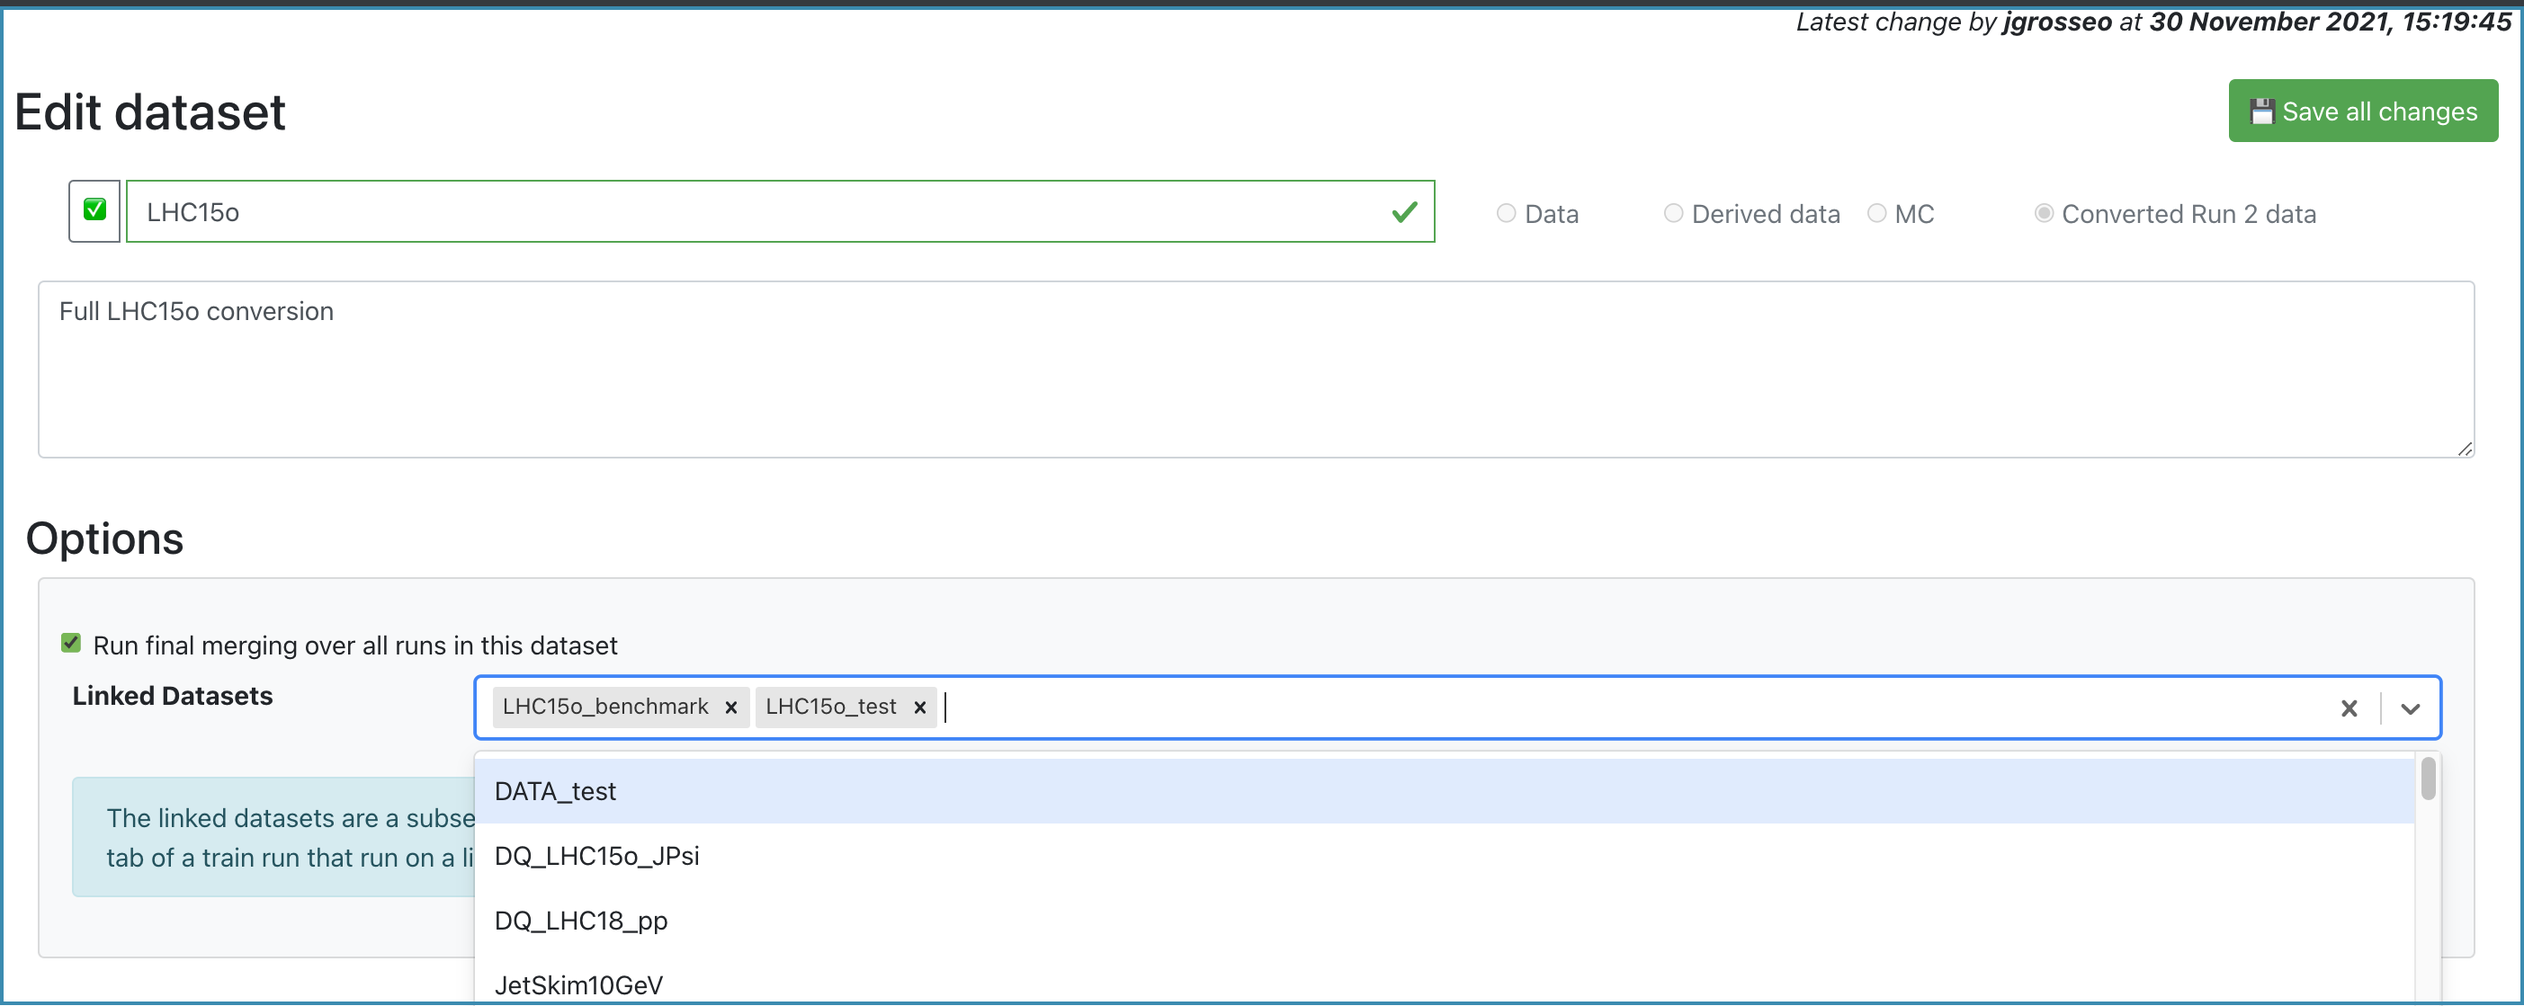
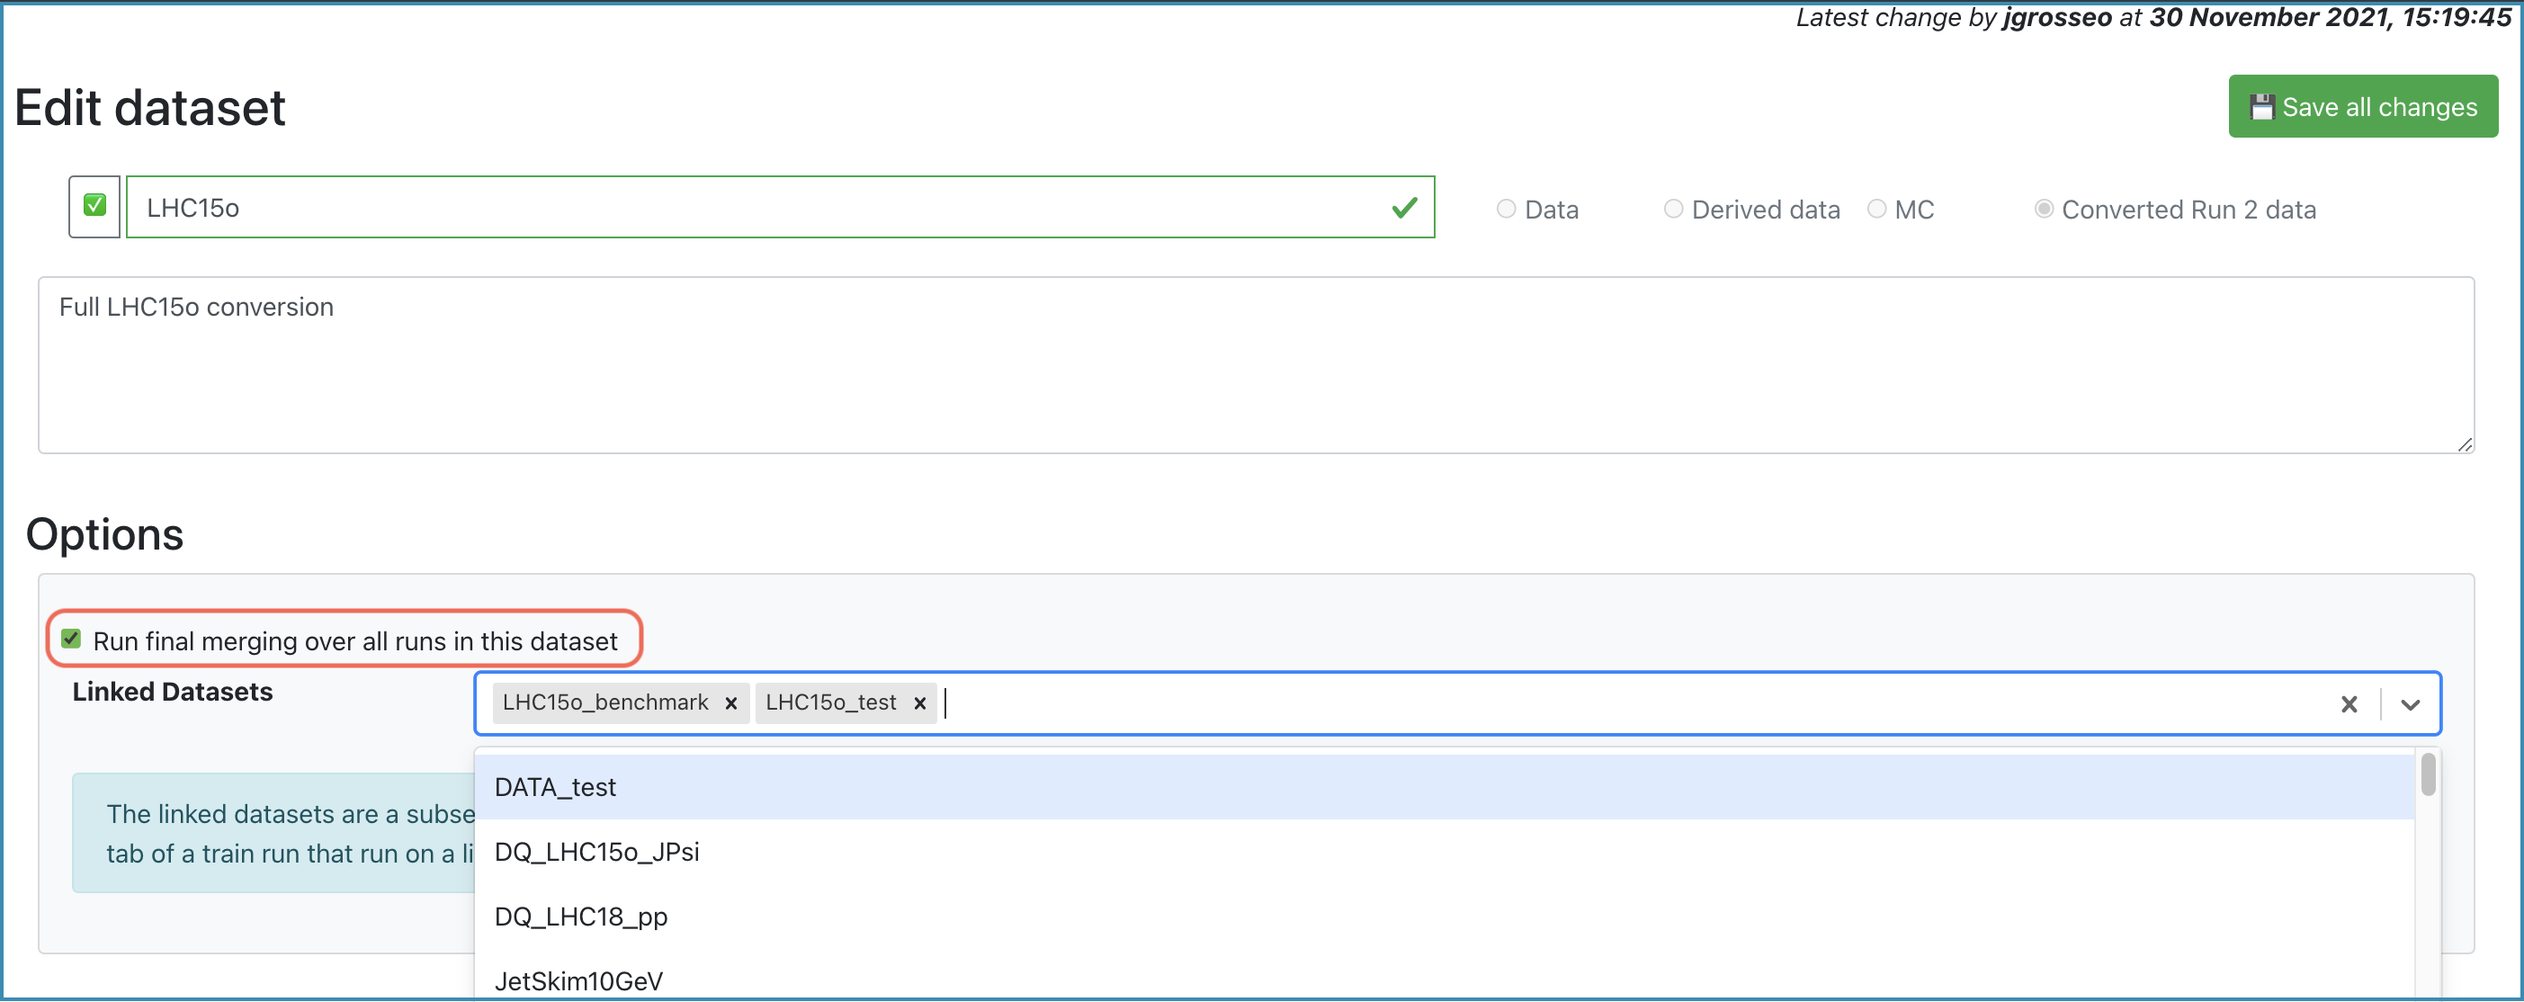
Update documentation and fixes (#79)
* Update information

* Fixes

* Update dataset production pictures

* Change layout

* Add direct links

* Add direct links

* Change format

* Add short description of main pages

* Add each warning in menu

diff --git a/docs/hyperloop/operatordocumentation.md b/docs/hyperloop/operatordocumentation.md
@@ -5,7 +5,7 @@ title: Operator Documentation
 
 ## <a name="dashboard"></a>Dashboard
 
-* The Dashboard displays the current state of the system by showing a number of status parameters related to wagons, trains and grid jobs. Additionally, the user can see the summary of the last week: average completion time, number of finished trains and wagon tests. 
+* The <a href="https://alimonitor.cern.ch/hyperloop/dashboard" target="_blank">**Dashboard**</a> displays the current state of the system by showing a number of status parameters related to wagons, trains and grid jobs. Additionally, the user can see the summary of the last week: average completion time, number of finished trains and wagon tests. 
 * Below, a display of the grid jobs state during the previous week is displayed, for every site.
 
 <div align="center">
@@ -15,7 +15,7 @@ title: Operator Documentation
 * By clicking the number of wagons waiting to be included in a train, the user can directly open the [_Train Submission_](#trainsubmission). Similarly, a link to the [_Train Runs_](#trainruns) is available by clicking the number of trains to be submitted to the grid, the number of running tests, or the number of finished trains.
 
 ## <a name="trainsubmission"></a>Train Submission
-* For a user, the _Train Submission_ page displays a read view only of datasets which have enabled wagons.
+* For a user, the <a href="https://alimonitor.cern.ch/hyperloop/train-submission" target="_blank">**Train Submission**</a> page displays a read view only of datasets which have enabled wagons.
 * For a train operator, the  _Train Submission_ page displays only datasets which have enabled wagons, and allows train composition, as well as submitting, modifying and killing a train.
 ### <a name="trainsubmission"></a>Train Composition
 * Trains are composed per dataset. Only wagons which have a test status of success `🌟` or warning `❗` can be composed in a train.
@@ -49,7 +49,7 @@ title: Operator Documentation
 </div>
 
 ## <a name="trainruns"></a>Train Runs
-* For a user, the _Train Runs_ page displays a read view only of all train runs available in the system.
+* For a user, the <a href="https://alimonitor.cern.ch/hyperloop/train-runs" target="_blank">**Train Runs**</a> page displays a read view only of all train runs available in the system.
 * For a train operator, the _Train Runs_ page displays all trains available in the system, and allows submitting, modifying and killing a train.
 * The train run detail can be accessed by clicking on the TRAIN_ID, or with the url <a href="https://alimonitor.cern.ch/hyperloop/train-run/TRAIN_ID" target="_blank">https://alimonitor.cern.ch/hyperloop/train-run/TRAIN_ID</a>.
 * The actions allowed in a train run:
@@ -111,7 +111,7 @@ title: Operator Documentation
   
 ## <a name="datasets"></a>Datasets
 
-* Displays all the datasets available. The operator can add, remove, activate or deactivate a dataset. Likewise, by clicking the `📝` button, the operator is able to modify the dataset in the [**Edit Dataset**](#editdataset) page.
+* The <a href="https://alimonitor.cern.ch/hyperloop/datasets" target="_blank">**Datasets**</a> page displays all the datasets available. The operator can add, remove, activate or deactivate a dataset. Likewise, by clicking the `📝` button, the operator is able to modify the dataset in the [**Edit Dataset**](#editdataset) page.
 
   <div align="center">
     <img src="../images/datasetsPage.png" width="100%">
@@ -119,7 +119,7 @@ title: Operator Documentation
 
 * The runlists will be received programmatically from the DPG.
 
-## <a name="editdataset"></a>Edit Dataset
+### <a name="editdataset"></a>Edit Dataset
 
 * Allows the operator to update the dataset properties. Firstly, the operator can update the name and description of the dataset, and activate or deactivate it by clicking the `❌` / `✅` button. In order to save the changes you made, click the _Save all changes_ button.
 
@@ -127,7 +127,7 @@ title: Operator Documentation
     <img src="../images/editDatasetOptions.png" width="70%">
   </div>
 
-* In the **Options** box, you can add linked datasets to the current dataset, which will be used for the [**staged submission**](#stagedsubmission).
+* In the **Options** box, you can add linked datasets to the current dataset, which will be used for the [**staged submission**](#stagedsubmission). Enabling _Run final merging over all runs in this dataset_ will merge all the runs of all the productions during the final merging.
 * In the **Analysis Facility Staging**, the user is able to stage or unstage the data to the available targets displayed in the dropdown.
   * Choose a target from the dropdown list, and you will be notified of the amount of data required for the staging process. Confirm by clicking OK. The staging process will start once clicking the _Save all changes_ button at the top right of the page. 
   * You can hover over the staging percentage to get a detailed status of the staging progress. By clicking on the percentage, you will be lead to a new tab where you can see the elaborate overview of the transfer requests on MonALISA.
@@ -141,41 +141,50 @@ title: Operator Documentation
   * _Scheduled_: If within schedule, trains will be composed with the compatible wagons in the dataset, regardless of the occupation in target memory.
   * _Train full_: The train will be composed only if the compatible wagons add up to at least 75% of the target memory.
   * _Scheduled and train full_: The train will be composed if it is within schedule. If not in schedule, the train will only be composed if the compatible wagons occupy at least 75% of the target memory.
-* For all these cases, the trains will only be composed if the tests finished without a warning.
+* For all these cases, the trains will only be composed if the tests finished without a warning and if they do not store derived data.
 
   <div align="center">
-    <img src="../images/automaticComposition2.png" width="80%">
+    <img src="../images/automaticComposition3.png" width="80%">
   </div>
   
 * Choose the days and times at which the trains should be composed.
 
   <div align="center">
-    <img src="../images/automaticComposition3.png" width="80%">
+    <img src="../images/automaticComposition2.png" width="80%">
   </div>
+  
+### Deciding on data to be processed depends on the dataset type
 
-* For RUN 2 data, the operator can add or change a conversion train run.
+* For RUN 2 data, the operator can add or remove a [**RUN 2 conversion train run**](https://alimonitor.cern.ch/trains/train.jsp?train_id=132#runs).
 
   <div align="center">
     <img src="../images/addTrainRun.png" width="70%">
   </div>
   
-* For RUN 3 data and MC, the operator can add or update a production. You can add runs to be exluded from the list of runs. 
-
-<div align="center">
-    <img src="../images/changeDatasetProduction.png" width="60%">
-  </div>
-
-* The mergelist defines which runs are merged into one file at the end of the train running. The operator can add or update a mergelist in the dataset.
-
-* In order to create a new production, click on the _+ Production_ button. After choosing the collision type, anchor and MC Tag, select the runlist defined by the DPG and click _+Add_. If no runlist is available, contact the DPG specialists for creating one.
-
-<div align="center">
+* For RUN 3 data and MC, the operator can add or remove a production. In order to create a new production, click on the _+Production_ button. After choosing the collision type, anchor and MC Tag, select the runlist defined by the DPG and click _+Add_. If no runlist is available, contact the DPG specialists for creating one.
+  
+  <div align="center">
     <img src="../images/addDatasetProduction.png" width="60%">
   </div>
 
+* For derived data, you can add or remove a production. Create a production by selecting _Data_, choose the desired _Period_ and select the required _Derived train_ from the dropdown list.
+
+ <div align="center">
+    <img src="../images/datasetDerivedData.png" width="60%">
+  </div>
+  
+* Within the dataset production you can update the list of runs to be excluded.
+
+  <div align="center">
+    <img src="../images/changeDatasetProduction.png" width="60%">
+  </div>
+
+* The mergelist defines which runs are merged into one file at the end of the train running. The operator can add, update, activate or deactivate a mergelist in the dataset. 
+
+
 ## <a name="dpgrunlists"></a>DPG Runlists
 
-* This page is dedicated to the DPG experts and displays all the DPG runlists created for the datasets. The DPG expert can add, edit or remove a runlist.
+* The <a href="https://alimonitor.cern.ch/hyperloop/runlists" target="_blank">**DPG Runlists**</a> page is dedicated to the DPG experts and displays all the DPG runlists created for the datasets. The DPG expert can add, edit or remove a runlist.
 
  <div align="center">
     <img src="../images/DPGrunlists.png" width="100%">
@@ -187,7 +196,7 @@ title: Operator Documentation
     <img src="../images/editRunlist.png" width="70%">
   </div>
   
-* DPG experts can create a new runlist by clikcing the **+Add runlist** button. In order to create the list of runs, the correct data type, anchor, tag and production must be selected.
+* DPG experts can create a new runlist by clicking the **+Add runlist** button. In order to create the list of runs, the correct data type, anchor, tag and production must be selected.
 
  <div align="center">
     <img src="../images/addRunlist.png" width="70%">

diff --git a/docs/hyperloop/notifications.md b/docs/hyperloop/notifications.md
@@ -3,7 +3,7 @@ sort: 2
 title: Notifications
 ---
 
-## <a name="notifications"></a>Notifications
+## <a name="notifications"></a>Introduction
 * There are different types of notifications that the user receives, each related to a specific topic. A notification does not necessarly request an action to be taken, but informs the user about a specific element, and depending on the situation, the user can decide the possible next steps.
 * The notifications can be seen in the _My Analyses_ page and in the _Notifications_ page, by clicking `🔔` in the menu bar.
 
@@ -17,9 +17,7 @@ title: Notifications
     <img src="../images/allNotifications.png" width="90%">
 </div>
 
-### <a name="datasetNotifications"></a>Dataset notifications
-
-#### <a name="datasetChanged"></a>Dataset changed
+## <a name="datasetChanged"></a>Dataset changed
 
 * Notifies the user that an update has been made to one of the datasets included in his or her analyses. The notification message contains a link to the history of the dataset that has been modified, as well as a link to the analysis this dataset is included in. The update here indicates that:
   * The name or discription of the dataset has changed
@@ -31,7 +29,7 @@ title: Notifications
     <img src="../images/datasetChanged.png" width="90%">
 </div>
 
-#### <a name="datasetActivated"></a>Dataset activated / deactivated
+## <a name="datasetActivated"></a>Dataset activated / deactivated
 
 * Notifies the user when a dataset has been successfully activated or deactivated.
 
@@ -39,7 +37,7 @@ title: Notifications
     <img src="../images/datasetActivation.png" width="90%">
 </div>
 
-#### <a name="productionAdded"></a>Production added or removed
+## <a name="productionAdded"></a>Production added or removed
 
 * For RUN 3 data and MC, the user is informed if the production has been successfully added to or removed from the dataset.
 
@@ -48,7 +46,7 @@ title: Notifications
 </div>
 
 
-#### <a name="trainrunAdded"></a>Conversion train run added into / removed from dataset
+## <a name="trainrunAdded"></a>Conversion train run added into / removed from dataset
 
 * For RUN 2 data, the user is notified when a conversion train run has been added to or removed from the dataset.
 
@@ -60,7 +58,7 @@ title: Notifications
   <img src="../images/trainrunRemoved.png" width="90%">
 </div>
 
-#### <a name="runlistUpdated"></a>Runlist updated
+## <a name="runlistUpdated"></a>Runlist updated
 
 * The user is informed when a run has been added to or removed from the dataset runlist. This change is usually done by the DPG experts.
 
@@ -68,7 +66,7 @@ title: Notifications
   <img src="../images/runlistUpdated.png" width="90%">
 </div>
 
-#### <a name="mergelistUpdate"></a>Mergelist updated
+## <a name="mergelistUpdate"></a>Mergelist updated
 
 * The mergelist defines which runs are merged into one file at the end of the train running. The user is informed when a mergelist has been modified, added to or removed from the dataset production. 
 
@@ -76,9 +74,7 @@ title: Notifications
   <img src="../images/mergelistUpdate.png" width="90%">
 </div>
 
-### <a name="wagonNotifications"></a>Wagon notifications
-
-#### <a name="infoWagonDisabled"></a>Disabled wagon
+## <a name="infoWagonDisabled"></a>Disabled wagon
 
 Informs the user when a wagon has been disabled in different circumstances: 
 
@@ -100,7 +96,7 @@ Informs the user when a wagon has been disabled in different circumstances:
   </div>
  
 
-#### <a name="inconsistentParameters"></a>Inconsistent parameters
+## <a name="inconsistentParameters"></a>Inconsistent parameters
 
 * Hyperloop makes a comparison between the wagon configuration and the configuration defined in O2 for the package tag selected for the wagon. If they do not coincide, the user will be informed about the mismatch. The comparison is case sensitive, therefore a Configurable will not match if its name does not contain the identical lowercase / uppercase combination.
 

diff --git a/docs/hyperloop/userdocumentation.md b/docs/hyperloop/userdocumentation.md
@@ -3,8 +3,8 @@ sort: 1
 title: User Documentation
 ---
 
-## <a name="myanalyses"></a>My Analyses
-* _My Analyses_ is a personalized webpage which displays all the analyses where the user belongs to. 
+## <a name="myanalyses"></a>My Analyses 
+* <a href="https://alimonitor.cern.ch/hyperloop/" target="_blank">**My Analyses**</a> is a personalized webpage which displays all the analyses where the user belongs to. 
 * The analyses display can be expanded/collapsed and reordered with the buttons `✚/-`,`⇧` and `⇩`, or by dragging and dropping. This configuration is saved per user.
 * The user can add/remove, configure and enable/disable wagons in this page.
 * The user can add/remove datasets per analysis.
@@ -176,6 +176,7 @@ The synchronization from JIRA to the Hyperloop train system can take up to 30 mi
 *  Inside of _Enable dataset_ you can search for an active dataset by filtering by data type, collision system, anchor and period. And add it to your analysis by clicking on the button `✚ Add to analysis`. Or you can click the button `ℹ All datasets` to be redirected to the [**Datasets**](#datasets) page.
 
 #### 2. <a name="datasets"></a> Using the _Datasets_ page:
+* The <a href="https://alimonitor.cern.ch/hyperloop/datasets" target="_blank">**Datasets**</a> page displays all the datasets available.
 *  You can browse and click on the _Dataset_ you want to add to your analysis.
 <div align="center">
 <img src="../images/enableDatasetDatasetsPage.png" width="80%">
@@ -215,11 +216,11 @@ When creating or enabling wagons, you can use a pull request instead of a packag
 
 ## <a name="allanalyses"></a>All Analyses
 
-* There is a read only view of all analyses available in the system. 
+* <a href="https://alimonitor.cern.ch/hyperloop/all-analyses" target="_blank">**All Analyses**</a> is a read only view of all analyses available in the system. 
 * Wagons from any analysis available in the system can be cloned `🧬` to a user's analysis.
 
 ## <a name="trainruns"></a>Train Runs
-* For a user, the _Train Runs_ page displays a read view only of all train runs available in the system.
+* For a user, the <a href="https://alimonitor.cern.ch/hyperloop/train-runs" target="_blank">**Train Runs**</a> page displays a read view only of all train runs available in the system.
 * For a train operator, the _Train Runs_ page displays all trains available in the system, and allows submitting, modifying and killing a train.
 * The train run detail can be accessed by clicking on the TRAIN_ID, or with the url <a href="https://alimonitor.cern.ch/hyperloop/train-run/TRAIN_ID" target="_blank">https://alimonitor.cern.ch/hyperloop/train-run/TRAIN_ID</a>.
 * The actions allowed in a train run:

diff --git a/docs/hyperloop/README.md b/docs/hyperloop/README.md
@@ -28,12 +28,10 @@ Hyperloop provides a web interface for users and operators which allows to:
 * study the resource consumption of the train for each wagon
 
 The views available in the Hyperloop framework are:
-* [My Analyses](userdocumentation.md#myanalyses): <a href="https://alimonitor.cern.ch/hyperloop/" target="_blank">`🔗`</a>
-* [All Analyses](userdocumentation.md#allanalyses): <a href="https://alimonitor.cern.ch/hyperloop/all-analyses" target="_blank">`🔗`</a>
-* [Dashboard](operatordocumentation.md#dashboard): <a href="https://alimonitor.cern.ch/hyperloop/dashboard" target="_blank">`🔗`</a>
-* [Train Submission](operatordocumentation.md#trainsubmission): <a href="https://alimonitor.cern.ch/hyperloop/train-submission" target="_blank">`🔗`</a>
-* [Train Runs](operatordocumentation.md#trainruns): <a href="https://alimonitor.cern.ch/hyperloop/train-runs" target="_blank">`🔗`</a>
-* [Datasets](operatordocumentation.md#datasets): <a href="https://alimonitor.cern.ch/hyperloop/datasets" target="_blank">`🔗`</a>
-* [DPG Runlists](operatordocumentation.md#dpgrunlists): <a href="https://alimonitor.cern.ch/hyperloop/runlists" target="_blank">`🔗`</a>
-* For a user, the **Datasets** page displays a read view only of all the datasets available in the system. For a train operator, the **Datasets** page allows creation, configuration and deletion of datasets. 
-* For the DPG experts, the **DPG Runlists** page allows creation, configuration and deletion of runlists. For the users it offers a read only view of all DPG runlists available in the system.
+* [My Analyses](userdocumentation.md#myanalyses): Personalized webpage which displays all the analyses where the user belongs to.
+* [All Analyses](userdocumentation.md#allanalyses): Displays all the analyses available in the system.
+* [Dashboard](operatordocumentation.md#dashboard): Presents an overview of the current state of the system, as well as a summary from the previous week.
+* [Train Submission](operatordocumentation.md#trainsubmission): Used by operators to compose and submit trains.
+* [Train Runs](operatordocumentation.md#trainruns): Displays all the train runs in the system.
+* [Datasets](operatordocumentation.md#datasets): Displays all the datasets available and allows the operator to create, configure and delete datasets.
+* [DPG Runlists](operatordocumentation.md#dpgrunlists): Displays all the DPG runlists available in the system. This page is used by DPG experts to create, configure and delete runlists.
